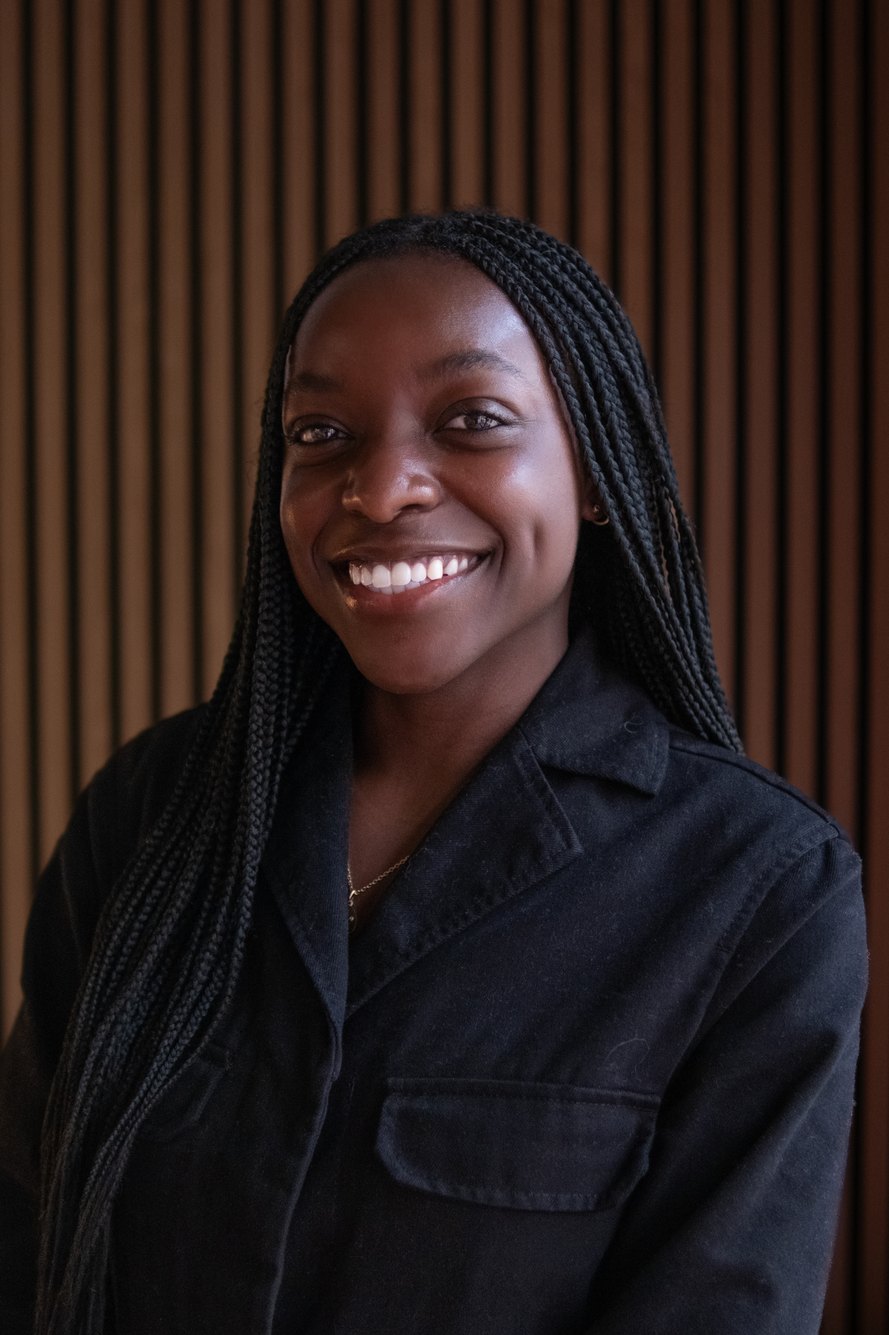
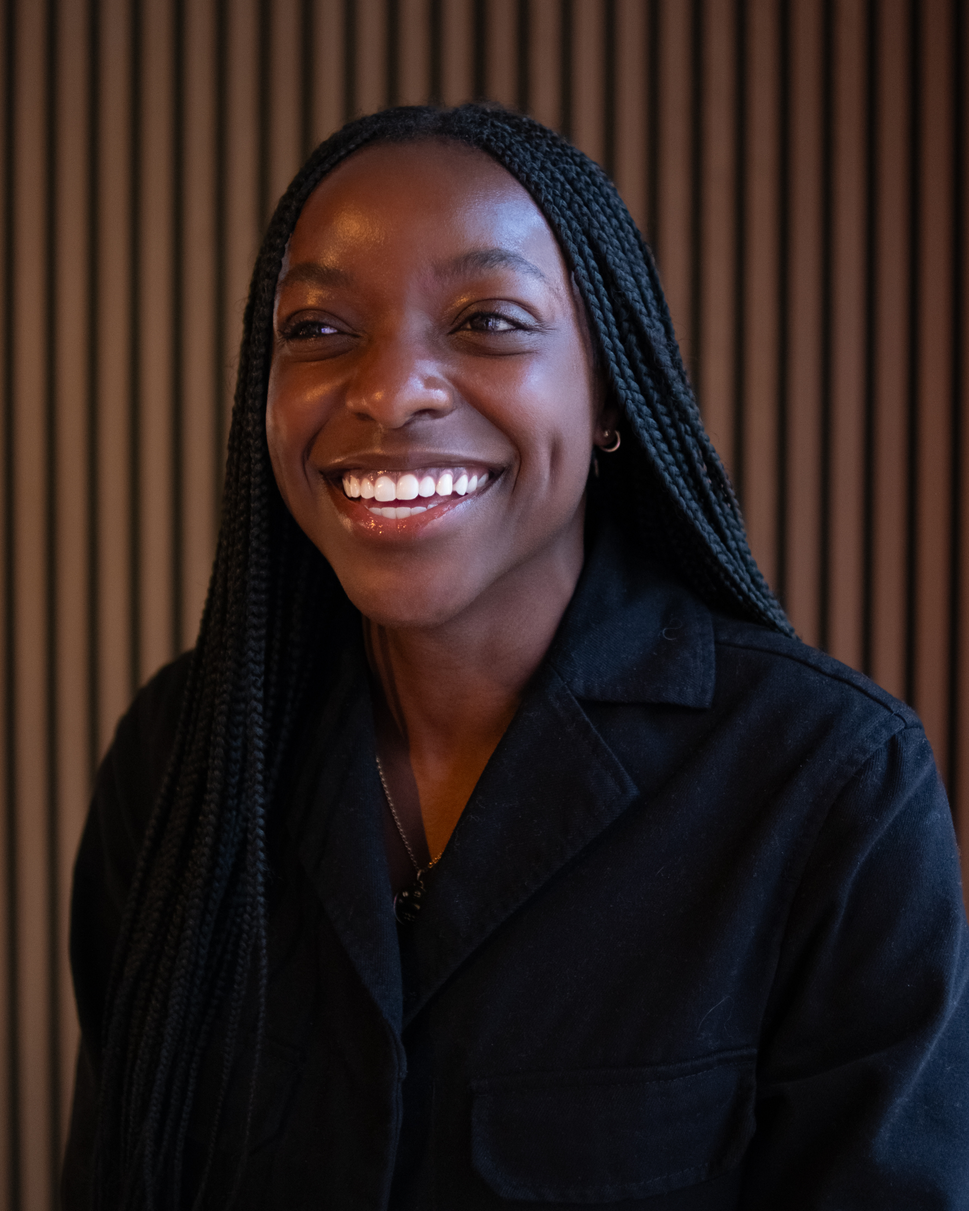
Fix Olivia headshots, new press gradient, fix widget preview

diff --git a/press.html b/press.html
@@ -302,7 +302,7 @@
 <!-- HERO -->
 <section id="hero">
   <div class="hero-label"><a href="index.html" style="color:inherit;text-decoration:none;">Brand Kit</a> / Press Kit</div>
-  <h1><span class="gradient-text">Press Kit</span></h1>
+  <h1><span style="background:linear-gradient(135deg,#ECB8FF 0%,#FFD6AA 100%);-webkit-background-clip:text;-webkit-text-fill-color:transparent;background-clip:text;">Press Kit</span></h1>
   <p style="font-size:19px;color:var(--secondary);max-width:560px;margin-top:28px;line-height:1.7;">Resources for journalists, writers, and media partners covering Opal. Download headshots, app videos, and press materials.</p>
 </section>
 
@@ -571,12 +571,13 @@
 <script>
 // Force all videos to show a preview frame
 document.querySelectorAll('.video-card video').forEach(video => {
+  // Seek further into videos that start with black frames
+  const seekTime = video.src.includes('Widget') ? 3 : 1;
   video.addEventListener('loadeddata', () => {
-    video.currentTime = 0.5;
+    video.currentTime = seekTime;
   });
-  // Fallback: if loadeddata already fired
   if (video.readyState >= 2) {
-    video.currentTime = 0.5;
+    video.currentTime = seekTime;
   }
 });
 
